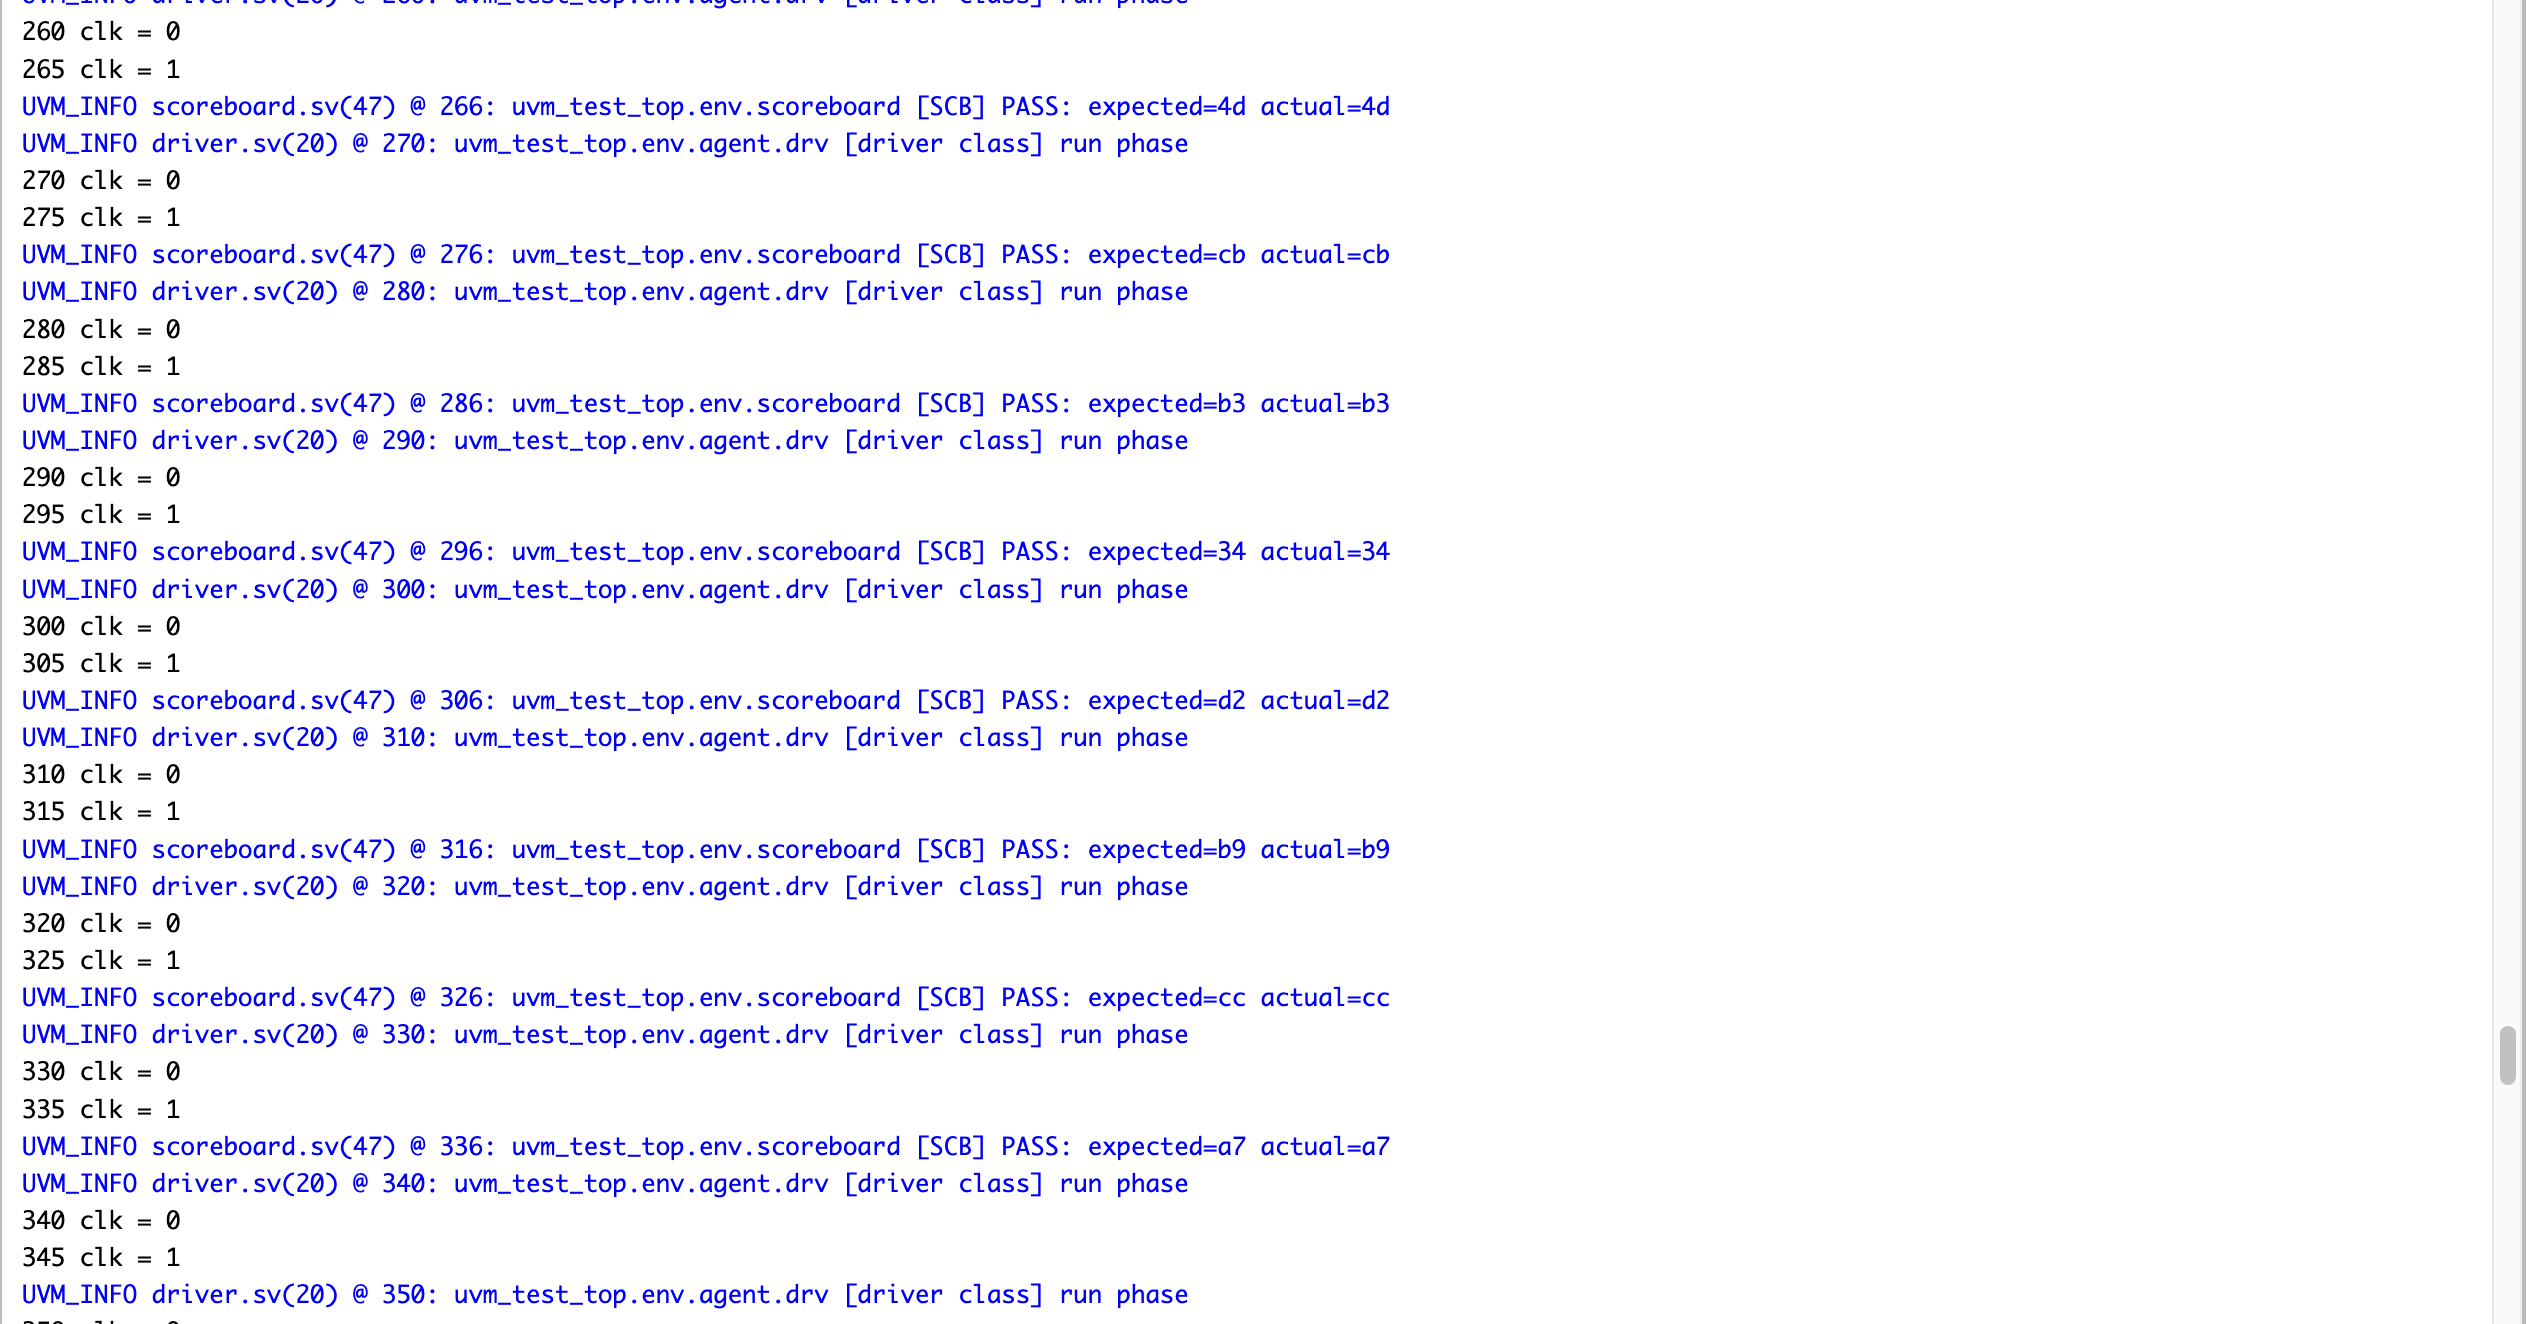
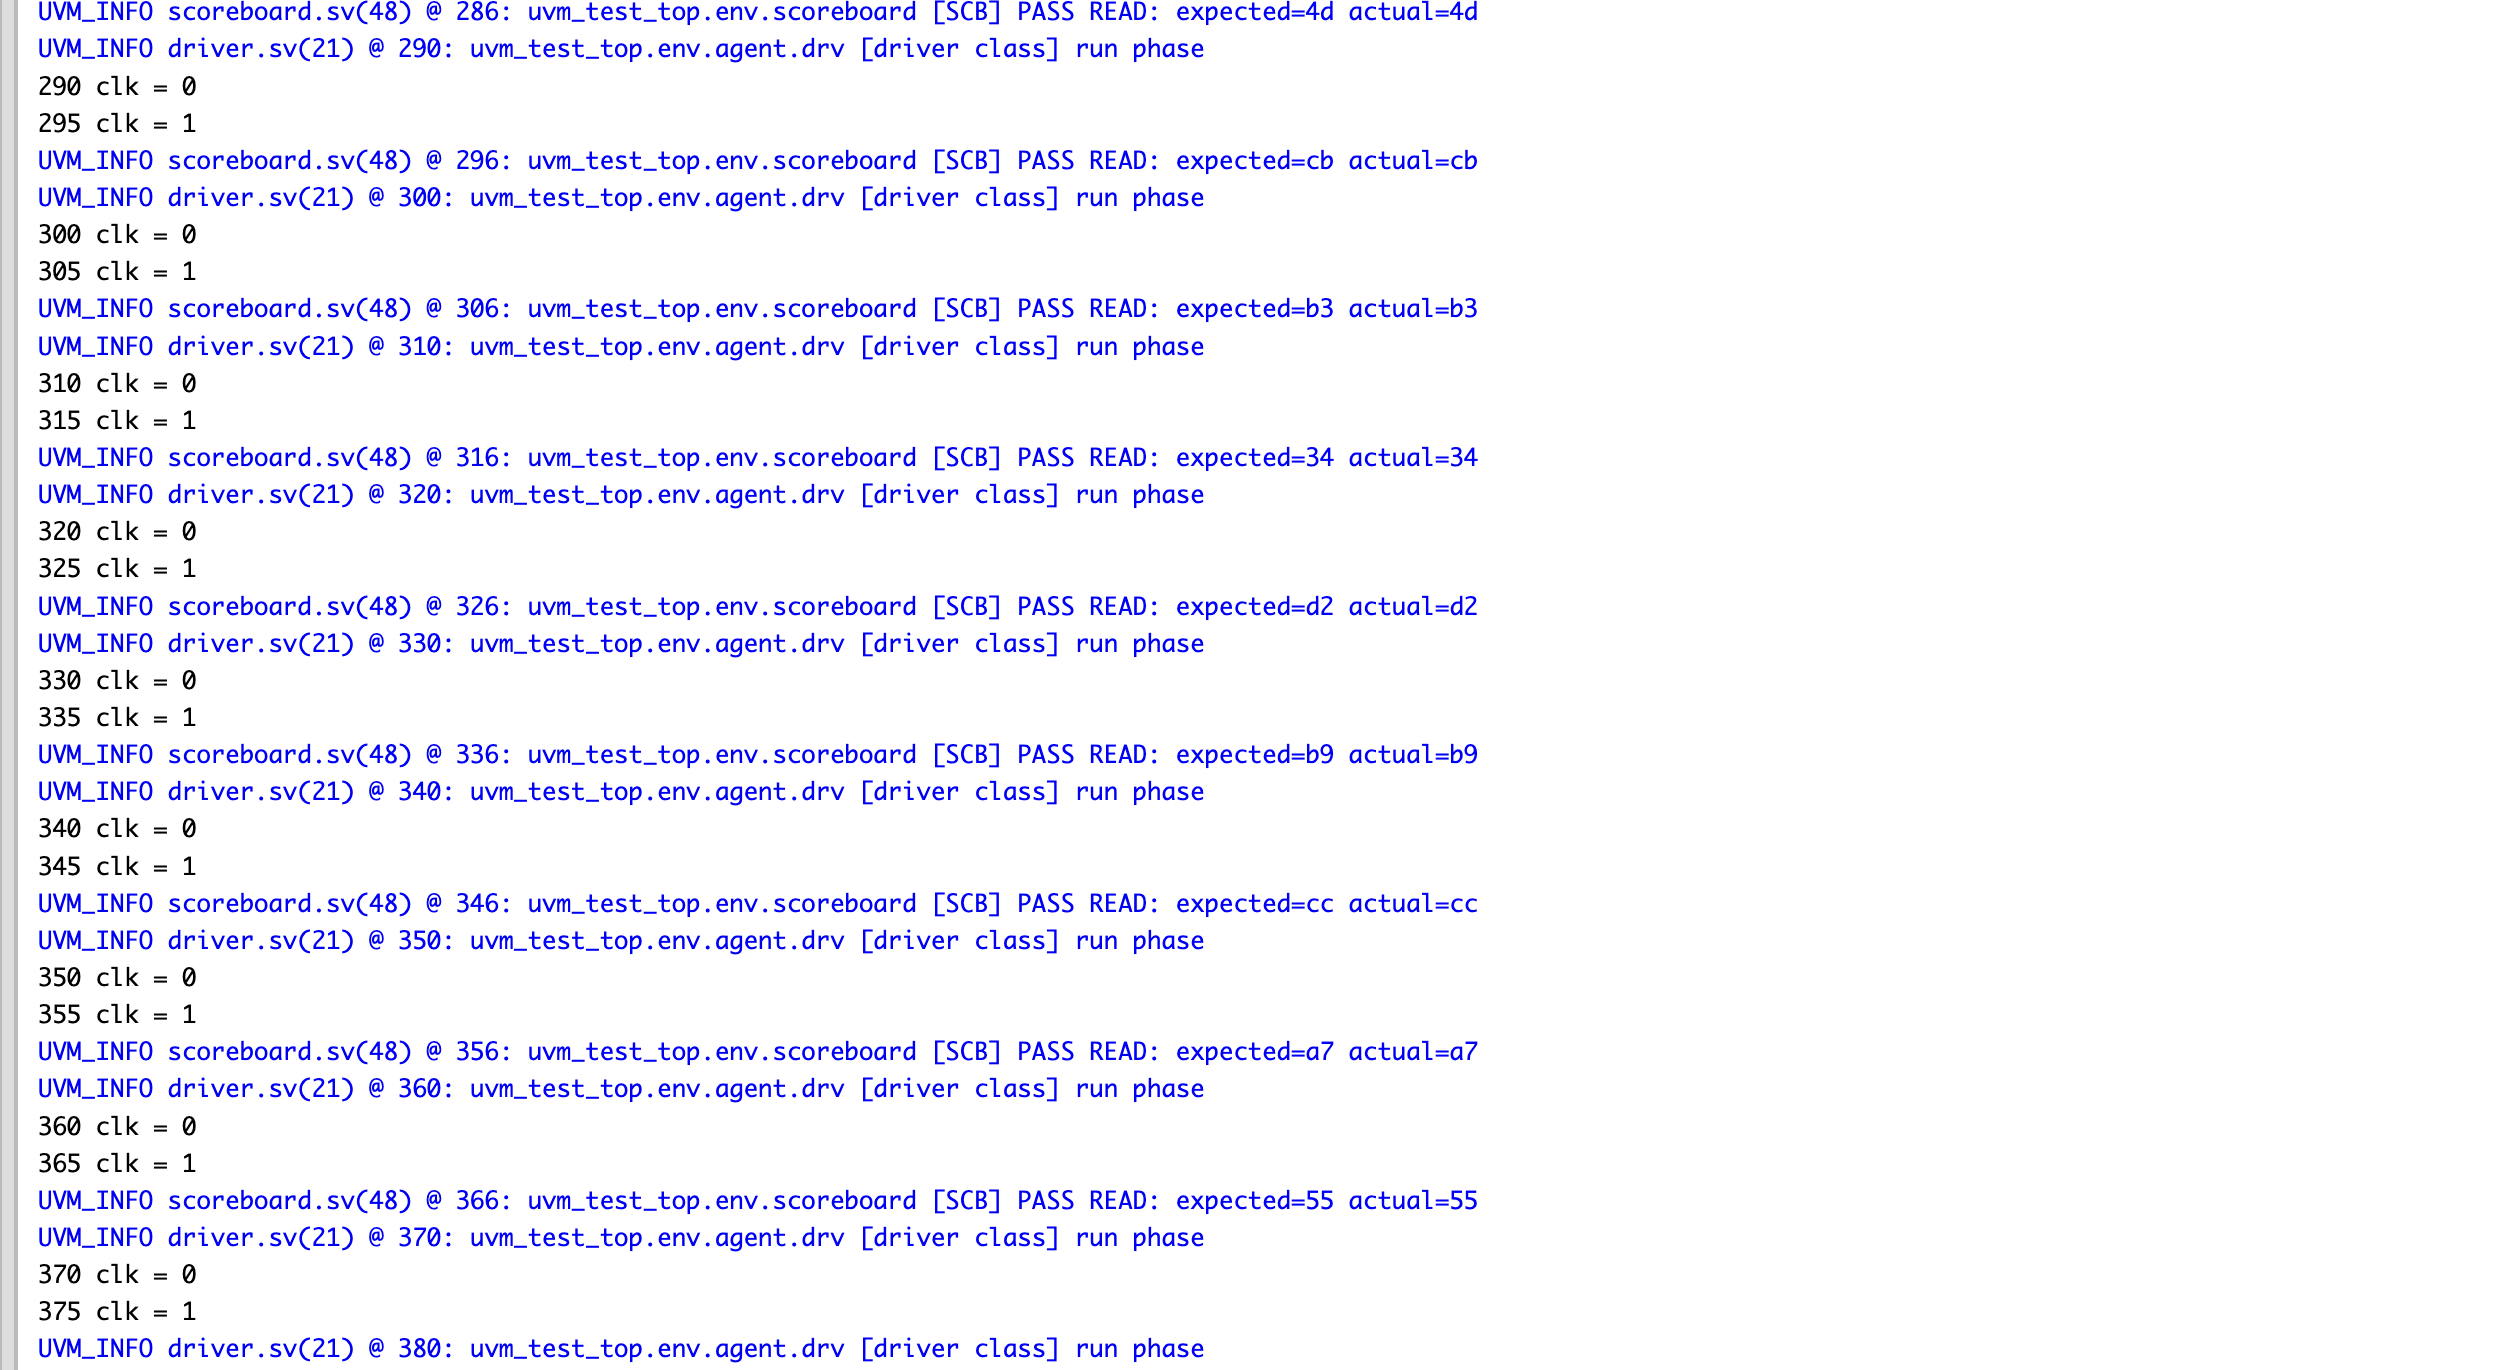
Fix independent FIFO scoreboard and refresh results

Changed region(s): [[0.0, 0.0, 0.5866, 1.0], [0.988, 0.0, 1.0, 1.0]]

diff --git a/README.md b/README.md
@@ -30,7 +30,7 @@ sequence -> sequencer -> driver -> interface -> FIFO DUT
 scoreboard <- analysis port <- monitor <-------+
 ```
 
-The driver applies requests on the falling clock edge. The DUT accepts them on the following rising edge. The monitor captures the request and the pre-edge `full`/`empty` state, waits one simulation step for registered read data to settle, and publishes the transaction to the scoreboard.
+The driver applies requests on the falling clock edge. The DUT accepts them on the following rising edge. The monitor waits one simulation step for registered read data and status outputs to settle, then publishes the observed transaction to the scoreboard.
 
 ## Verification scenarios
 
@@ -43,13 +43,15 @@ The default `fifo_test` runs these sequences in order:
 
 ## Scoreboard
 
-The scoreboard uses a SystemVerilog queue as an independent FIFO reference model:
+The scoreboard uses a SystemVerilog queue as an independent FIFO reference model. It saves `pre_size` before processing each monitored cycle and determines accepted operations only from that model state:
 
-- An accepted write calls `push_back(data_in)`.
-- An accepted read calls `pop_front()`.
-- The expected value is compared with the DUT's `data_out` and reported through UVM.
+- A write is accepted when `wr_en` is asserted and `pre_size < DEPTH`.
+- A read is accepted when `rd_en` is asserted and `pre_size > 0`.
+- Accepted writes call `push_back(data_in)`.
+- Accepted reads call `pop_front()` and compare the expected value with `data_out` using four-state equality.
+- After modeling both operations, DUT `full` and `empty` are compared with the predicted queue occupancy.
 
-This checks both stored data and FIFO ordering. The scoreboard deliberately ignores blocked writes while full and blocked reads while empty.
+The reference model never trusts DUT `full` or `empty` to decide what happened. This prevents a faulty status flag from masking its own bug and correctly checks the boundary write that makes the FIFO full and the boundary read that makes it empty. The scoreboard report summarizes accepted operations and remaining model entries; the directed regression is expected to finish with `writes=16 reads=16 leftover=0`.
 
 ## Assertions
 
@@ -96,13 +98,13 @@ On EDA Playground, add `design.sv` as the design and the remaining files as test
 
 ## Captured results
 
-The supplied run demonstrates the UVM hierarchy, queue comparisons, FIFO fill/drain waveform, and a clean UVM report summary.
+The supplied run demonstrates the UVM hierarchy, independent queue comparisons, FIFO fill/drain boundary behavior, and a clean UVM report summary.
 
 ### Fill and drain waveform
 
 ![FIFO fill and drain waveform](results/fill-drain-waveform.png)
 
-The waveform shows reset, occupancy increasing to 16, `full` assertion, occupancy returning to zero, and `empty` assertion.
+The waveform shows reset, all 16 accepted writes, `full` assertion on the boundary cycle, all 16 accepted reads, and `empty` assertion on the final read boundary.
 
 ### Queue-based comparisons
 
@@ -116,7 +118,7 @@ The waveform shows reset, occupancy increasing to 16, `full` assertion, occupanc
 
 ![UVM report summary](results/uvm-report-summary.png)
 
-The captured UVM report contains zero `UVM_WARNING`, `UVM_ERROR`, and `UVM_FATAL` messages. This is a UVM report summary; it is not a separate assertion-coverage report.
+The captured fill/drain run completes with 16 accepted writes, 16 accepted reads, and no leftover reference entries. Its UVM report contains zero `UVM_WARNING`, `UVM_ERROR`, and `UVM_FATAL` messages. This is a UVM report summary; it is not a separate assertion-coverage report.
 
 ## Scope
 
